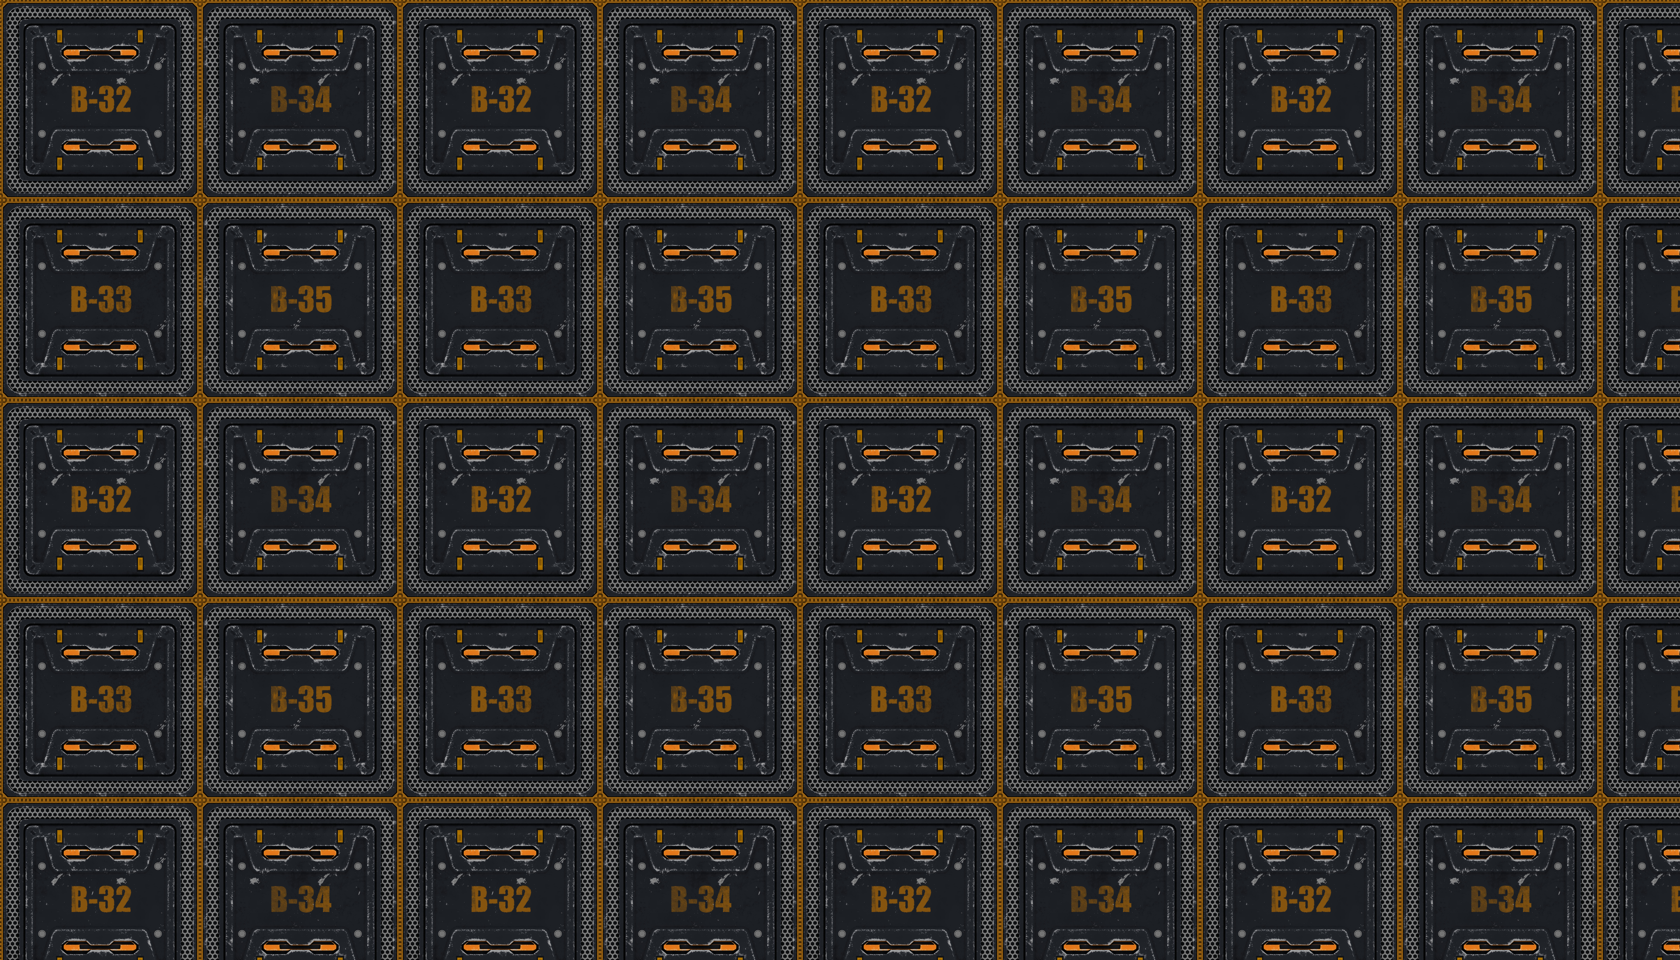
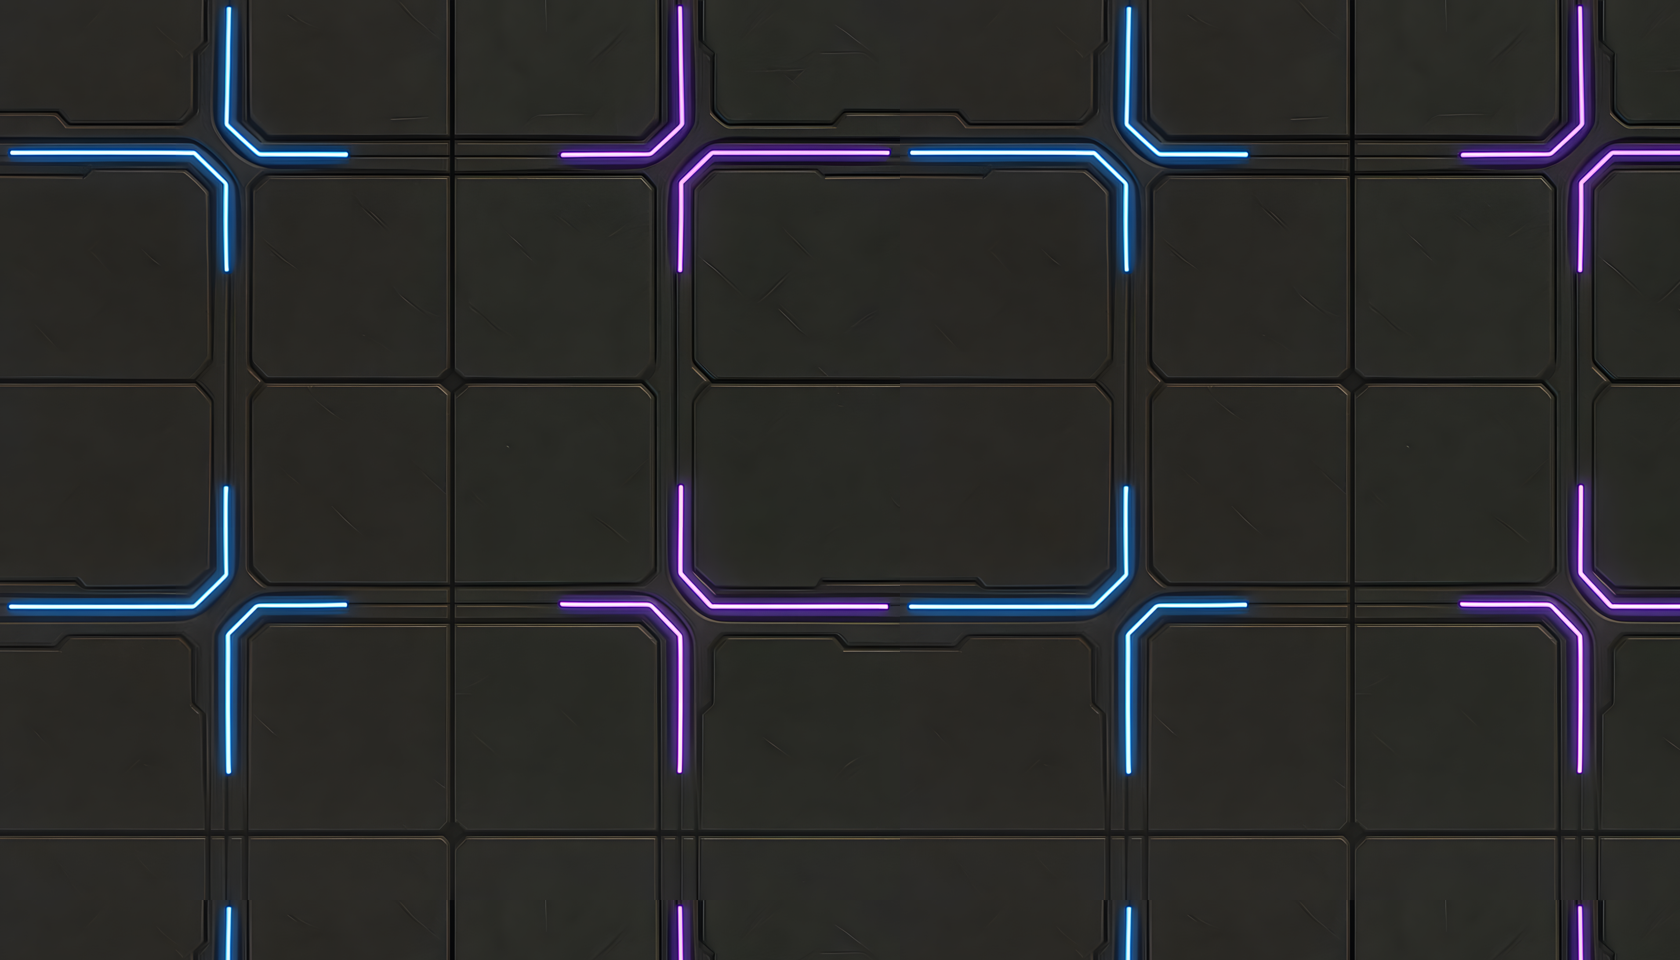
Simplify floor to a single material: floor_tile_1 at 2k
Drops the Scifi_Panels_05 locker-panel floor and the separate
floor_accent strip in favor of one calm, glowing-seam floor
(floor_tile_1_color_2k.png) across the whole hall, per request.

diff --git a/Tools/build_hall_assets.py b/Tools/build_hall_assets.py
@@ -102,15 +102,11 @@ def sci_counter(path, w=800, h=80):
     img.save(path)
 
 
-# --- Floor: Scifi_Panels_05 (locker/access-panel look) as main floor ---
-# Source is a 4096x4096 sheet containing 4 distinct labeled panels (B-32..B-35) —
-# downscale first so tiling repeats a reasonably sized cell, not one giant corner.
-tile_texture(os.path.join(PACKS, "Scifi_Panels_05", "Scifi_Panels_05_basecolor.jpg"),
-             os.path.join(SHIP, "floor_hall.png"), 1680, 960, tile_size=400)
-
-# --- Floor accent near the bar: glowing-seam panel ---
-tile_texture(os.path.join(PACKS, "Floor Tile 1", "PNG", "1k", "floor_tile_1_color.png"),
-             os.path.join(SHIP, "floor_accent.png"), 900, 220)
+# --- Floor: single material for now, floor_tile_1 at 2k (glowing-seam panel) ---
+# Source is 2048x2048 — downscale so the baked-in repeat cell reads at game scale
+# (comparable to the ~150-220px furniture/tile scale used elsewhere in the hall).
+tile_texture(os.path.join(PACKS, "Floor Tile 1", "PNG", "2k", "floor_tile_1_color_2k.png"),
+             os.path.join(SHIP, "floor_hall.png"), 1680, 960, tile_size=900)
 
 # --- Walls: calm painted-wall base on all four sides ---
 WALL_THICKNESS = 96
